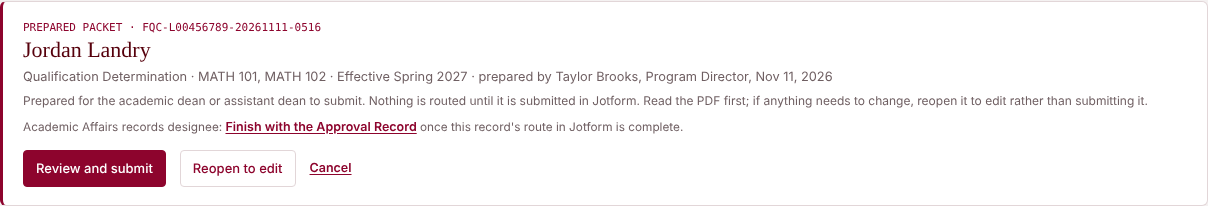
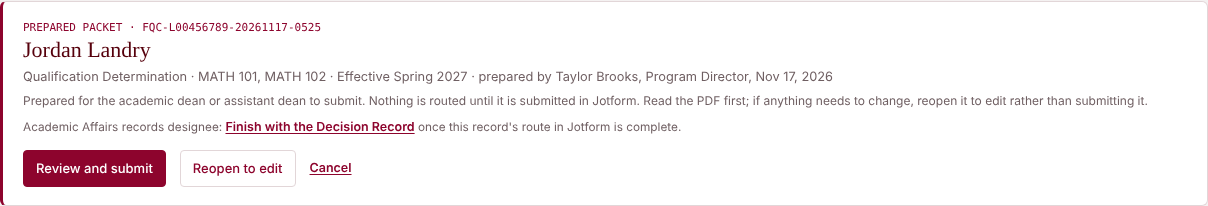
Guide for Portal Build 2026-11-17: the Decision Record
Every route ends with the records designee adding the signed Decision
Record (formerly the Approval Record) with Finish with the Decision
Record. Screenshots retaken on build 2026-11-17; updated November 17.

Claude-Session: https://claude.ai/code/session_01J5K1hrU2XZL1xTyb8pooWj

Changed region(s): [[0.245, 0.5825, 0.582, 0.6408], [0.6432, 0.3495, 0.7045, 0.4078], [0.245, 0.1165, 0.2757, 0.1456]]

diff --git a/index.html b/index.html
@@ -428,7 +428,7 @@ figure.w100 img { width: 100%; }
   <div class="rule"></div>
   <div class="t3 long">Guide for Deans, Assistant Deans, and Program Directors</div>
   <div class="cover-actions screen-only">
-    <span class="updated">Updated November 8, 2026</span>
+    <span class="updated">Updated November 17, 2026</span>
   </div>
   </div>
   <div class="cover-base"><div class="cover-base-in">
@@ -611,7 +611,7 @@ figure.w100 img { width: 100%; }
       <dt>Packet</dt><dd>How many documents are attached, and how many items are left before the packet can download.</dd>
     </dl>
   </figure>
-  <p>The label at the foot of the page, <span class="mono">Portal Build 2026-11-11</span> for example, is also recorded inside every packet and draft, so Academic Affairs can match a packet to the build that made it.</p>
+  <p>The label at the foot of the page, <span class="mono">Portal Build 2026-11-17</span> for example, is also recorded inside every packet and draft, so Academic Affairs can match a packet to the build that made it.</p>
 </section>
 
 <!-- ============ 5 STEPS ============ -->
@@ -797,7 +797,7 @@ figure.w100 img { width: 100%; }
     <tr><td class="k">Removal</td><td>The AVCI decides on a section in progress when that applies. Academic Affairs updates the record and sends the instructor written notice.</td></tr>
     <tr><td class="k">Transition plan</td><td>The AVCI establishes the plan with the academic dean.</td></tr>
   </table></div>
-  <p>Every route ends with the Academic Affairs records designee, who opens the packet in the Portal, adds the signed Approval Record after the report with <strong>Finish with the Approval Record</strong>, and files the final packet in the Faculty Credentialing library. It is kept for the duration of employment and five years after, and exception records at least through the College's next reaffirmation (Section V.11).</p>
+  <p>Every route ends with the Academic Affairs records designee, who opens the packet in the Portal, adds the signed Decision Record after the report with <strong>Finish with the Decision Record</strong>, and files the final packet in the Faculty Credentialing library. It is kept for the duration of employment and five years after, and exception records at least through the College's next reaffirmation (Section V.11).</p>
 
   <h2>The emails you will receive</h2>
   <p>Each email goes to the academic dean and the submitter, and to the program director who prepared the packet, with the AVCI copied, and replies reach Academic Affairs. The record table in each one names the instructor, the courses, the term, and the record ID.</p>
@@ -929,7 +929,7 @@ figure.w100 img { width: 100%; }
       <a class="book-btn" href="https://bookings.cloud.microsoft/bookwithme/user/1b384762461c48428e36236a2bc28d64%40bpcc.edu?anonymous&amp;ismsaljsauthenabled=true" target="_blank" rel="noopener"><svg viewBox="0 0 24 24" fill="none" stroke="currentColor" stroke-width="2.2" stroke-linecap="round" stroke-linejoin="round" aria-hidden="true"><rect x="3" y="5" width="18" height="16" rx="2"/><path d="M16 3v4M8 3v4M3 10h18"/></svg>Book time with Dr. Bange</a>
     </div>
   </div>
-  <div class="end">Faculty Qualifications and Credentialing Portal · Guide for Deans, Assistant Deans, and Program Directors · Office of Academic Affairs, Bossier Parish Community College · November 2026. The screenshots show Portal Build 2026-11-11 on invented records. BPCC is a member of the LCTC System.</div>
+  <div class="end">Faculty Qualifications and Credentialing Portal · Guide for Deans, Assistant Deans, and Program Directors · Office of Academic Affairs, Bossier Parish Community College · November 2026. The screenshots show Portal Build 2026-11-17 on invented records. BPCC is a member of the LCTC System.</div>
 </section>
 
 </main>
